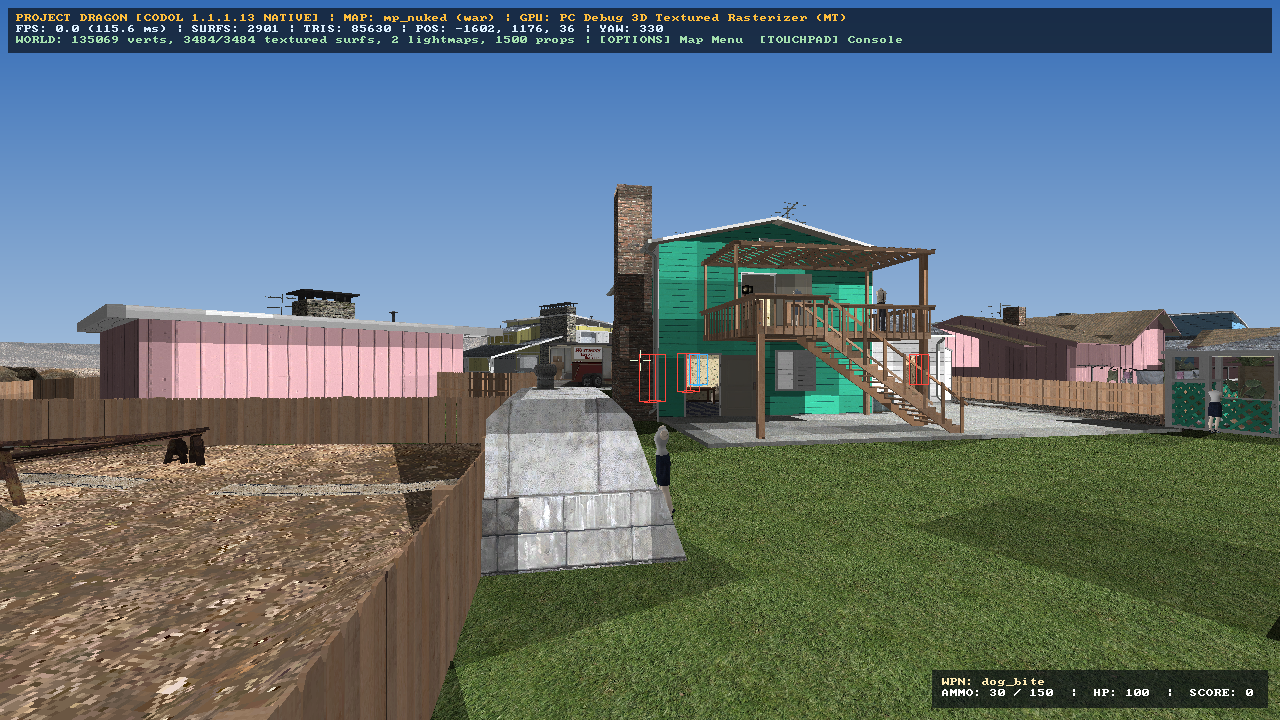
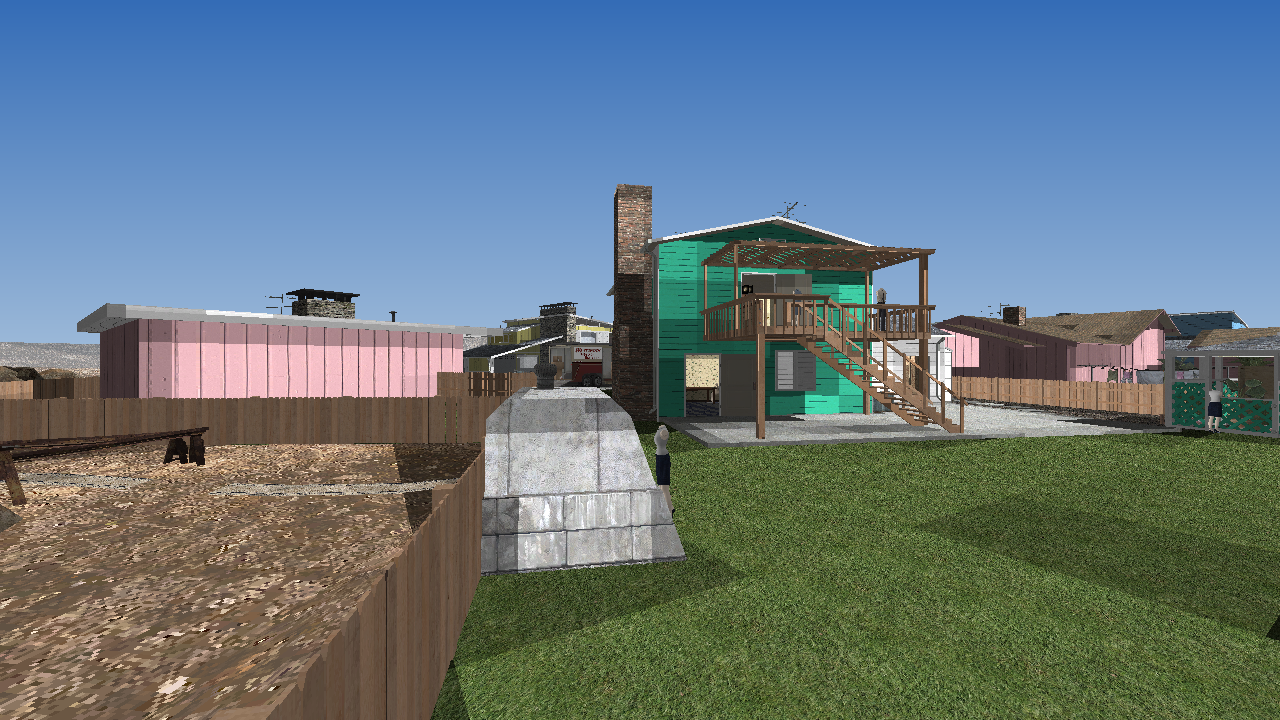
README: document authentic startup/UI pipeline, honest status, clean PC Debug screenshots without dev overlays

diff --git a/README.md b/README.md
@@ -34,7 +34,7 @@
 
 ## Authentic In-Engine Screenshots
 
-Rendered directly by Project Dragon's clean-room C++20 engine from original Call of Duty Online `1.1.1.13` FastFiles (v334) and encrypted `.iwd` image archives (no synthetic replacement geometry or generic textures):
+Rendered directly by Project Dragon's clean-room C++20 engine from original Call of Duty Online `1.1.1.13` FastFiles (v334) and encrypted `.iwd` image archives (no synthetic replacement geometry or generic textures). Captured on the **PC Debug build** (software rasterizer, 1280×720) with all developer overlays disabled — these are not PS4 captures.
 
 | **Nuketown (`mp_nuked`)** | **Tropical Crash (`mp_crash_tropical`)** |
 |:---:|:---:|
@@ -65,6 +65,21 @@ Rendered directly by Project Dragon's clean-room C++20 engine from original Call
 - **Weapons & Hit Registration**: Reads real `ASSET_TYPE_WEAPON` headers (e.g. `thundergun_zm`), weapon state timing (idle, fire, ADS, reload, switch), and raycast hit detection.
 - **Offline Server & Bot Navigation**: 20 Hz tick server parsing real `MapEnts` entity lumps, `mp_tdm_spawn*` spawn points, and waypoint pathing across `node_pathnode` graphs.
 - **GSC VM**: Clean-room cooperative thread VM executing map scripts (`thread`, `wait`, `waittill`, `notify`, `setDvar`).
+
+### 4. Authentic Visual Fidelity & Startup Pipeline
+Everything the player sees is loaded at runtime from the user's own client files — no AI-generated logos, redrawn wordmarks or invented menus.
+
+| Element | Original source (user's client) | Status |
+|---|---|---|
+| PS4 tile `icon0.png` | `codoMP_client_shipRetail.exe` → `RT_GROUP_ICON` ID `1` → `RT_ICON` ID `5` (64×64, 32-bit alpha), extracted locally by `extract_ps4_icon.py` | `IMPLEMENTED` |
+| Startup splash | root `splash.bmp` (800×510, shown by `Sys_ShowSplashWindow`) | `IMPLEMENTED` |
+| Loading screen | `patch_code_post_gfx_mp.ff` → `ui_mp/load.txt` (`menuDef load`) + `loadscreen_menu.iwi` | `IMPLEMENTED` |
+| Fonts | IW `Font_s` assets from `code_post_gfx_mp.ff` + `gamefonts_pc.iwi` / `devfonts_pc.iwi` | `IMPLEMENTED` |
+| Login / main-menu logo | Scaleform `codologin.gfx` (`loginView`) and `codo.gfx` (`logoView`) bitmap display lists | `IMPLEMENTED` (bitmaps only) |
+| Intro videos | `main/video/PUB_logo.bk2`, `CODO_logo.bk2` (Bink 2 `KB2i`) | `NOT_IMPLEMENTED` — headers parsed, decoder missing, logged as `[UI][UNFINISHED]` |
+| Scaleform ActionScript / vector shapes | AS3 `DoABC`, `DefineShape`, CJK `fonts_ingame.gfx`, `codohud.gfx` | `NOT_IMPLEMENTED` — logged as `[UI][UNFINISHED]` |
+
+The engine's own map selector, telemetry HUD, crosshair and bot boxes are **off by default** and only available as explicit developer tools (`--dev-map-menu`, `--dev-hud`, `--dev-crosshair`, `--dev-boxes`, or `L1+R1+TOUCHPAD` on PS4). The PS4 build is currently `COMPILED`; it has not yet been tested on hardware or in an emulator.
 
 ---
 
@@ -132,6 +147,7 @@ project-dragon/
 │   ├── assets/                            # Runtime key/wavelet extraction, FastFile v334, IWD/IWI cache
 │   ├── gfx/                               # Dual-path PS4 renderer (Piglet GLES2 + VideoOut direct-memory)
 │   ├── platform/                          # OrbisOS direct memory, pthreads, libScePad, libSceAudioOut, crash log
+│   ├── ui/                                # Authentic startup/UI loader (splash.bmp, IW Font_s/menuDef_t, Scaleform GFx bitmaps)
 │   └── world/                             # GfxWorld, ClipMap collision, MapEnts, PM_Move, Weapons, GSC VM
 ├── third_party/
 │   └── codol_zone_portable/               # MIT-derived FastFile v334 + IWD/IWI/Wavelet + pure C++20 crypto
@@ -140,7 +156,7 @@ project-dragon/
 │   │   ├── inspect_game.py                # Phase 1 PE/FastFile/IWD analyzer
 │   │   └── extract_ps4_icon.py            # Extracts authentic PS4 icon0.png from user's codoMP_client_shipRetail.exe
 │   └── dragon_validate/main.cpp           # Phase 3 cross-map automated asset validator
-├── tests/test_suite.cpp                   # Automated unit & integration tests (26/26 passing)
+├── tests/test_suite.cpp                   # Automated unit & integration tests (33/33 passing)
 ├── docs/
 │   ├── screenshots/                       # In-engine rendered map screenshots
 │   ├── TECHNICAL_RESEARCH_REPORT.md       # Empirical Phase 1 analysis & PS4 architecture report
@@ -149,9 +165,9 @@ project-dragon/
 ├── SETUP.bat / BUILD_PS4.bat / PACKAGE_PS4.bat / PACKAGE_PS4_ALL_IN_ONE.bat / BUILD_PC_DEBUG.bat / VALIDATE_ASSETS.bat
 └── scripts/
     ├── setup.sh                           # Download OpenOrbis v0.5.4 & host tool verification
-    ├── build_pc_debug.sh                  # Compile PC Debug binaries & run 26 automated tests
+    ├── build_pc_debug.sh                  # Compile PC Debug binaries & run 33 automated tests
     ├── build_ps4.sh                       # Cross-compile native PS4 eboot.bin (FSELF) & verify PT_LOAD
-    ├── package_ps4.sh                     # Package clean engine PKG (~6.4 MB, extracts icon0.png locally)
+    ├── package_ps4.sh                     # Package clean engine PKG (~6.9 MB, extracts icon0.png locally)
     ├── package_ps4_all_in_one.sh          # Package self-contained All-in-One PKG (~10 GB, personal use)
     └── validate_assets.sh                 # Run full-corpus map validation
 ```
@@ -169,13 +185,13 @@ sudo apt update && sudo apt install -y clang-18 lld-18 llvm-18 cmake ninja-build
 # 2. Setup OpenOrbis PS4 Toolchain v0.5.4 & LibOrbisPkg
 ./scripts/setup.sh
 
-# 3. Build PC Debug targets and execute all 26 automated tests
+# 3. Build PC Debug targets and execute all 33 automated tests
 ./scripts/build_pc_debug.sh
 
 # 4. Cross-compile native PS4 executable (build-ps4/eboot.bin)
 ./scripts/build_ps4.sh
 
-# 5a. Package clean engine PKG (dist/IV0000-DRGN00113_00-PROJECTDRAGON000.pkg, ~6.4 MB)
+# 5a. Package clean engine PKG (dist/IV0000-DRGN00113_00-PROJECTDRAGON000.pkg, ~6.9 MB)
 #     Extracts the authentic PS4 tile icon locally from your codoMP_client_shipRetail.exe:
 ./scripts/package_ps4.sh "/path/to/Call of Duty Online 1.1.1.13"
 
@@ -202,7 +218,7 @@ Run the automated batch scripts in sequence:
 ### Option A — Single All-in-One PKG (Plug-and-Play)
 1. Build using `./scripts/package_ps4_all_in_one.sh "<your-codol-dir>"` to generate `dist/all-in-one/IV0000-DRGN00113_00-PROJECTDRAGON000.pkg`.
 2. Install the `.pkg` on your PS4 via GoldHEN Package Installer.
-3. Launch **Project Dragon** (`DRGN00113`) directly from the home screen. The engine automatically mounts its internal `/app0/codol` asset tree with zero file copying needed.
+3. Launch **Call of Duty Online** (`DRGN00113`) directly from the home screen. The engine automatically mounts its internal `/app0/codol` asset tree with zero file copying needed.
 
 ### Option B — Clean Engine PKG + External Game Folder
 1. Build the lightweight **`dist/IV0000-DRGN00113_00-PROJECTDRAGON000.pkg`** (~6.9 MB) locally with `./scripts/package_ps4.sh "<your-codol-dir>"` (which extracts the authentic `icon0.png` tile from your `codoMP_client_shipRetail.exe`) and install via GoldHEN Package Installer.
